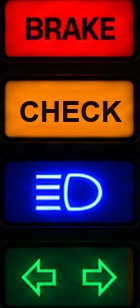
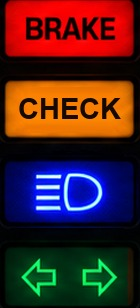
Old-school Ferrari: lamp covers and lit lamps on the new picture's lamps
The dark covers and lit lamps were cut at the old picture's lamp positions;
the new picture's lamps sit 3-6 px higher or lower, so a rim of the printed
lit lamp showed. Each lamp is measured from its glow and covered exactly,
CHECK centred on its lamp.

Changed region(s): [[0.1143, 0.2922, 0.8857, 0.4091]]

diff --git a/hardware/ui/skins.js b/hardware/ui/skins.js
@@ -34,7 +34,7 @@
     // psi, °C, bar and MPH, so these needles keep those units whatever the dash's own unit
     // setting is.
     'skin-ferrari': {
-      face: 'skins/ferrari.jpg?v=f3a5132b3c', night: 'skins/ferrari-night.jpg?v=270410d90c', lit: 'skins/ferrari-lamps.jpg?v=d1ba0e2712', litAt: [890, 134],
+      face: 'skins/ferrari.jpg?v=a281d1bd8f', night: 'skins/ferrari-night.jpg?v=f4cad9888d', lit: 'skins/ferrari-lamps.jpg?v=82276908b6', litAt: [890, 134],
       needle: {body: '#ff7418', edge: '#ffd2a0', glow: '#ff6a00'},
       dials: [
         // Tach 0-7 (x1000), its red band running on to 7500.
@@ -58,11 +58,11 @@
       // Lamps: lit from the dash's own indicators. The amber one (ABS in the photo) is CHECK:
       // an alert going off, and a tap on it opens the Alerts tab.
       lamps: [
-        {id: 'brake', box: [896, 140, 1024, 196], on: lit('icon-brake')},
-        {id: 'check', box: [896, 218, 1024, 274], on: () => $('alerts-launch')?.dataset.warning === 'true', tap: () => $('alerts-launch')?.click()},
-        {id: 'lights', box: [896, 298, 1024, 355], on: lit('icon-running')},
-        {id: 'left', box: [896, 379, 960, 436], on: turn('left')},
-        {id: 'right', box: [960, 379, 1024, 436], on: turn('right')}
+        {id: 'brake', box: [895, 134, 1023, 191], on: lit('icon-brake')},
+        {id: 'check', box: [895, 215, 1023, 271], on: () => $('alerts-launch')?.dataset.warning === 'true', tap: () => $('alerts-launch')?.click()},
+        {id: 'lights', box: [895, 295, 1023, 356], on: lit('icon-running')},
+        {id: 'left', box: [895, 381, 959, 440], on: turn('left')},
+        {id: 'right', box: [959, 381, 1023, 440], on: turn('right')}
       ],
       warning: [560, 596, 1360]
     },

diff --git a/preview/skins.js b/preview/skins.js
@@ -34,7 +34,7 @@
     // psi, °C, bar and MPH, so these needles keep those units whatever the dash's own unit
     // setting is.
     'skin-ferrari': {
-      face: 'skins/ferrari.jpg?v=f3a5132b3c', night: 'skins/ferrari-night.jpg?v=270410d90c', lit: 'skins/ferrari-lamps.jpg?v=d1ba0e2712', litAt: [890, 134],
+      face: 'skins/ferrari.jpg?v=a281d1bd8f', night: 'skins/ferrari-night.jpg?v=f4cad9888d', lit: 'skins/ferrari-lamps.jpg?v=82276908b6', litAt: [890, 134],
       needle: {body: '#ff7418', edge: '#ffd2a0', glow: '#ff6a00'},
       dials: [
         // Tach 0-7 (x1000), its red band running on to 7500.
@@ -58,11 +58,11 @@
       // Lamps: lit from the dash's own indicators. The amber one (ABS in the photo) is CHECK:
       // an alert going off, and a tap on it opens the Alerts tab.
       lamps: [
-        {id: 'brake', box: [896, 140, 1024, 196], on: lit('icon-brake')},
-        {id: 'check', box: [896, 218, 1024, 274], on: () => $('alerts-launch')?.dataset.warning === 'true', tap: () => $('alerts-launch')?.click()},
-        {id: 'lights', box: [896, 298, 1024, 355], on: lit('icon-running')},
-        {id: 'left', box: [896, 379, 960, 436], on: turn('left')},
-        {id: 'right', box: [960, 379, 1024, 436], on: turn('right')}
+        {id: 'brake', box: [895, 134, 1023, 191], on: lit('icon-brake')},
+        {id: 'check', box: [895, 215, 1023, 271], on: () => $('alerts-launch')?.dataset.warning === 'true', tap: () => $('alerts-launch')?.click()},
+        {id: 'lights', box: [895, 295, 1023, 356], on: lit('icon-running')},
+        {id: 'left', box: [895, 381, 959, 440], on: turn('left')},
+        {id: 'right', box: [959, 381, 1023, 440], on: turn('right')}
       ],
       warning: [560, 596, 1360]
     },

diff --git a/hardware/ui/instruments.css b/hardware/ui/instruments.css
@@ -28,7 +28,7 @@
 .skin-wheels { justify-content:space-between; padding:0 3px; }
 .skin-wheels span { flex:1; text-align:center; font:700 30px/1 "DejaVu Sans Mono", Consolas, monospace; color:#f2efe6; }
 .skin-warning { position:absolute; margin:0; padding:5px 12px; white-space:nowrap; overflow:hidden; text-overflow:ellipsis; text-align:center; font-size:15px; font-weight:800; letter-spacing:.5px; color:#ffb35c; background:#1a0d06; border:1px solid #ff6a1a; border-radius:4px; }
-.look-card[data-gauge-preview="skin-ferrari"] .look-art { background:#000 url("skins/ferrari.jpg?v=f3a5132b3c") 50% 50% / contain no-repeat; }
+.look-card[data-gauge-preview="skin-ferrari"] .look-art { background:#000 url("skins/ferrari.jpg?v=a281d1bd8f") 50% 50% / contain no-repeat; }
 .look-card[data-gauge-preview="skin-fox"] .look-art { background:#000 url("skins/fox.jpg?v=894d45eccd") 50% 50% / contain no-repeat; }
 .look-card[data-gauge-preview="skin-ferrari-yellow"] .look-art { background:#000 url("skins/ferrari-yellow.jpg?v=f8280b01d3") 50% 50% / contain no-repeat; }
 .look-card[data-gauge-preview="skin-saleen"] .look-art { background:#000 url("skins/saleen.jpg?v=cf7010853f") 50% 50% / contain no-repeat; }

diff --git a/preview/instruments.css b/preview/instruments.css
@@ -28,7 +28,7 @@
 .skin-wheels { justify-content:space-between; padding:0 3px; }
 .skin-wheels span { flex:1; text-align:center; font:700 30px/1 "DejaVu Sans Mono", Consolas, monospace; color:#f2efe6; }
 .skin-warning { position:absolute; margin:0; padding:5px 12px; white-space:nowrap; overflow:hidden; text-overflow:ellipsis; text-align:center; font-size:15px; font-weight:800; letter-spacing:.5px; color:#ffb35c; background:#1a0d06; border:1px solid #ff6a1a; border-radius:4px; }
-.look-card[data-gauge-preview="skin-ferrari"] .look-art { background:#000 url("skins/ferrari.jpg?v=f3a5132b3c") 50% 50% / contain no-repeat; }
+.look-card[data-gauge-preview="skin-ferrari"] .look-art { background:#000 url("skins/ferrari.jpg?v=a281d1bd8f") 50% 50% / contain no-repeat; }
 .look-card[data-gauge-preview="skin-fox"] .look-art { background:#000 url("skins/fox.jpg?v=894d45eccd") 50% 50% / contain no-repeat; }
 .look-card[data-gauge-preview="skin-ferrari-yellow"] .look-art { background:#000 url("skins/ferrari-yellow.jpg?v=f8280b01d3") 50% 50% / contain no-repeat; }
 .look-card[data-gauge-preview="skin-saleen"] .look-art { background:#000 url("skins/saleen.jpg?v=cf7010853f") 50% 50% / contain no-repeat; }

diff --git a/preview/dash.html b/preview/dash.html
@@ -9,7 +9,7 @@
   <link rel="stylesheet" href="style.css?v=19a8aa5d9484">
   <link rel="stylesheet" href="review.css?v=4131615d94e6">
   <link rel="stylesheet" href="responsive.css?v=da2c9ab114c3">
-<link rel="stylesheet" href="instruments.css?v=df8b9052152a">
+<link rel="stylesheet" href="instruments.css?v=aa1028b0019a">
 <link rel="stylesheet" href="camera.css?v=b12b9525cfcb">
 <script src="offline.js?v=c5796081ea94"></script>
 <script src="boot.js?v=447cd355bc91"></script>
@@ -517,7 +517,7 @@
 <script src="units.js?v=7f934be8abf3"></script>
 <script src="review.js?v=c6ec99c5fdab"></script>
 <script src="instruments.js?v=f99ebd832402"></script>
-<script src="skins.js?v=542a3832427a"></script>
+<script src="skins.js?v=a583fd0d4062"></script>
 <script src="personalize.js?v=6bb50c768489"></script>
 <script src="trip.js?v=8663447547eb"></script>
 <script src="driving.js?v=ec6c08585e9b"></script>
